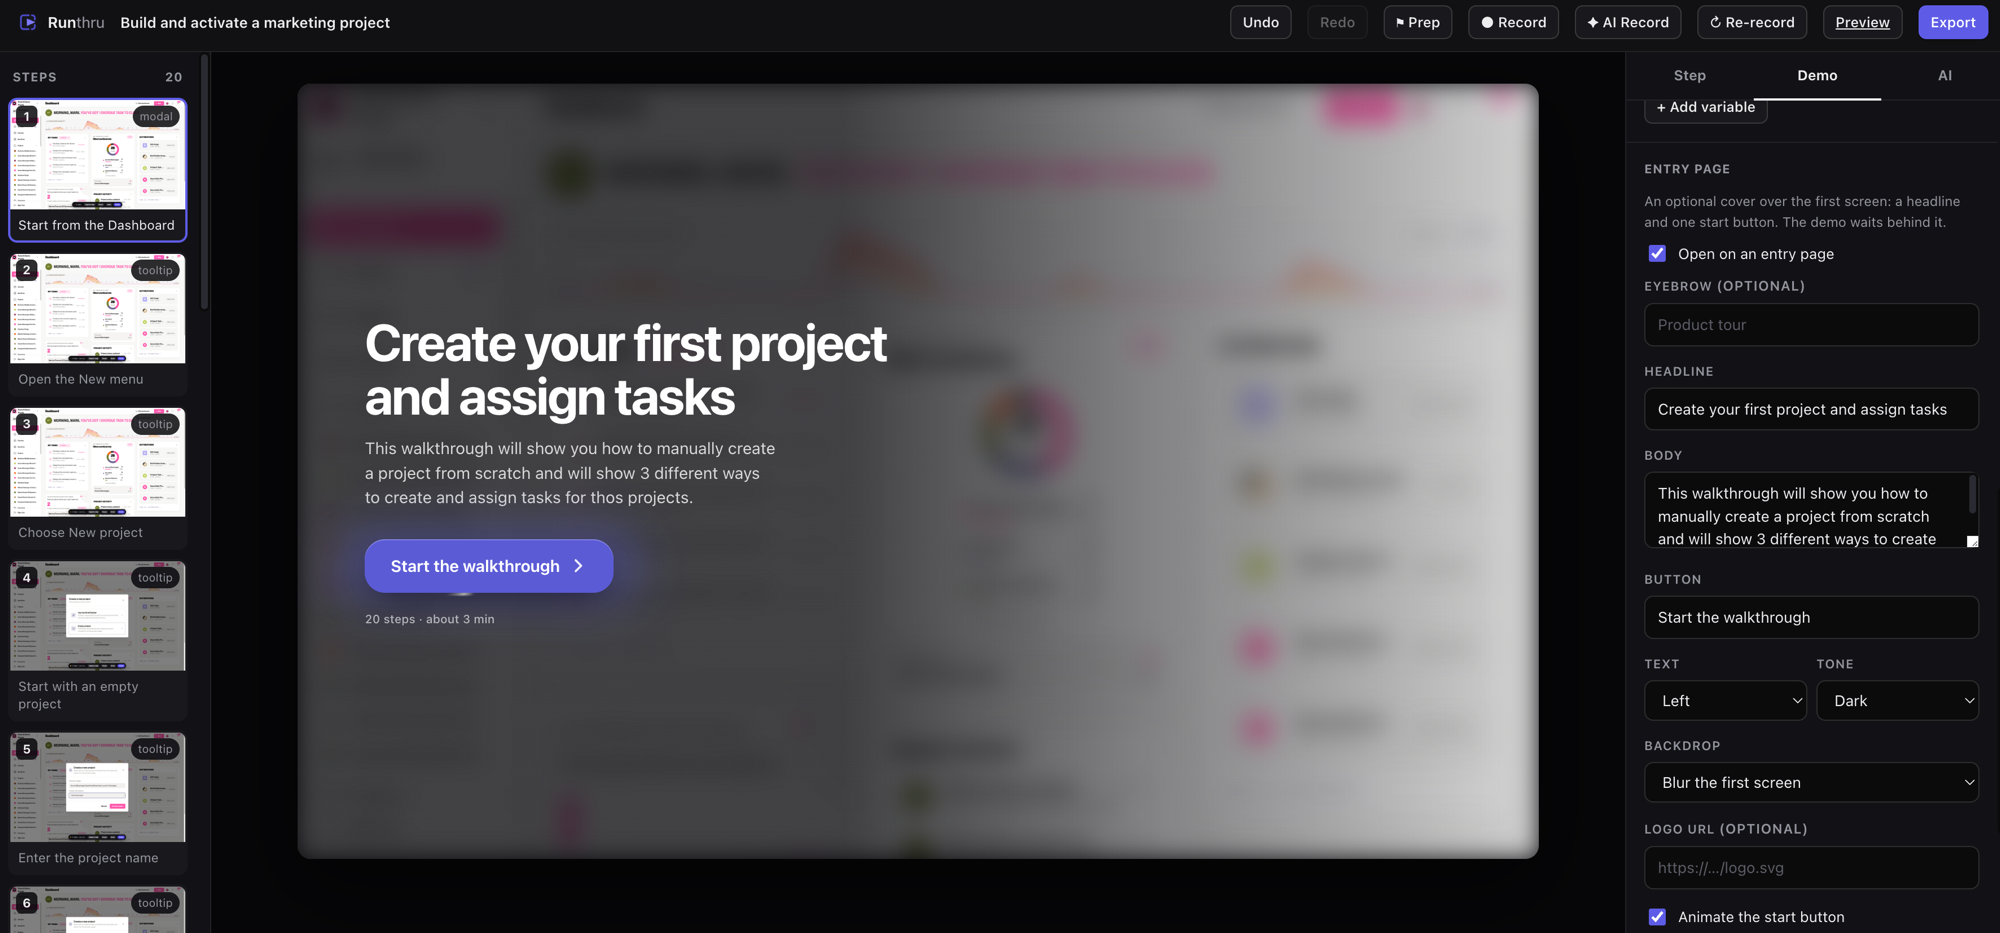
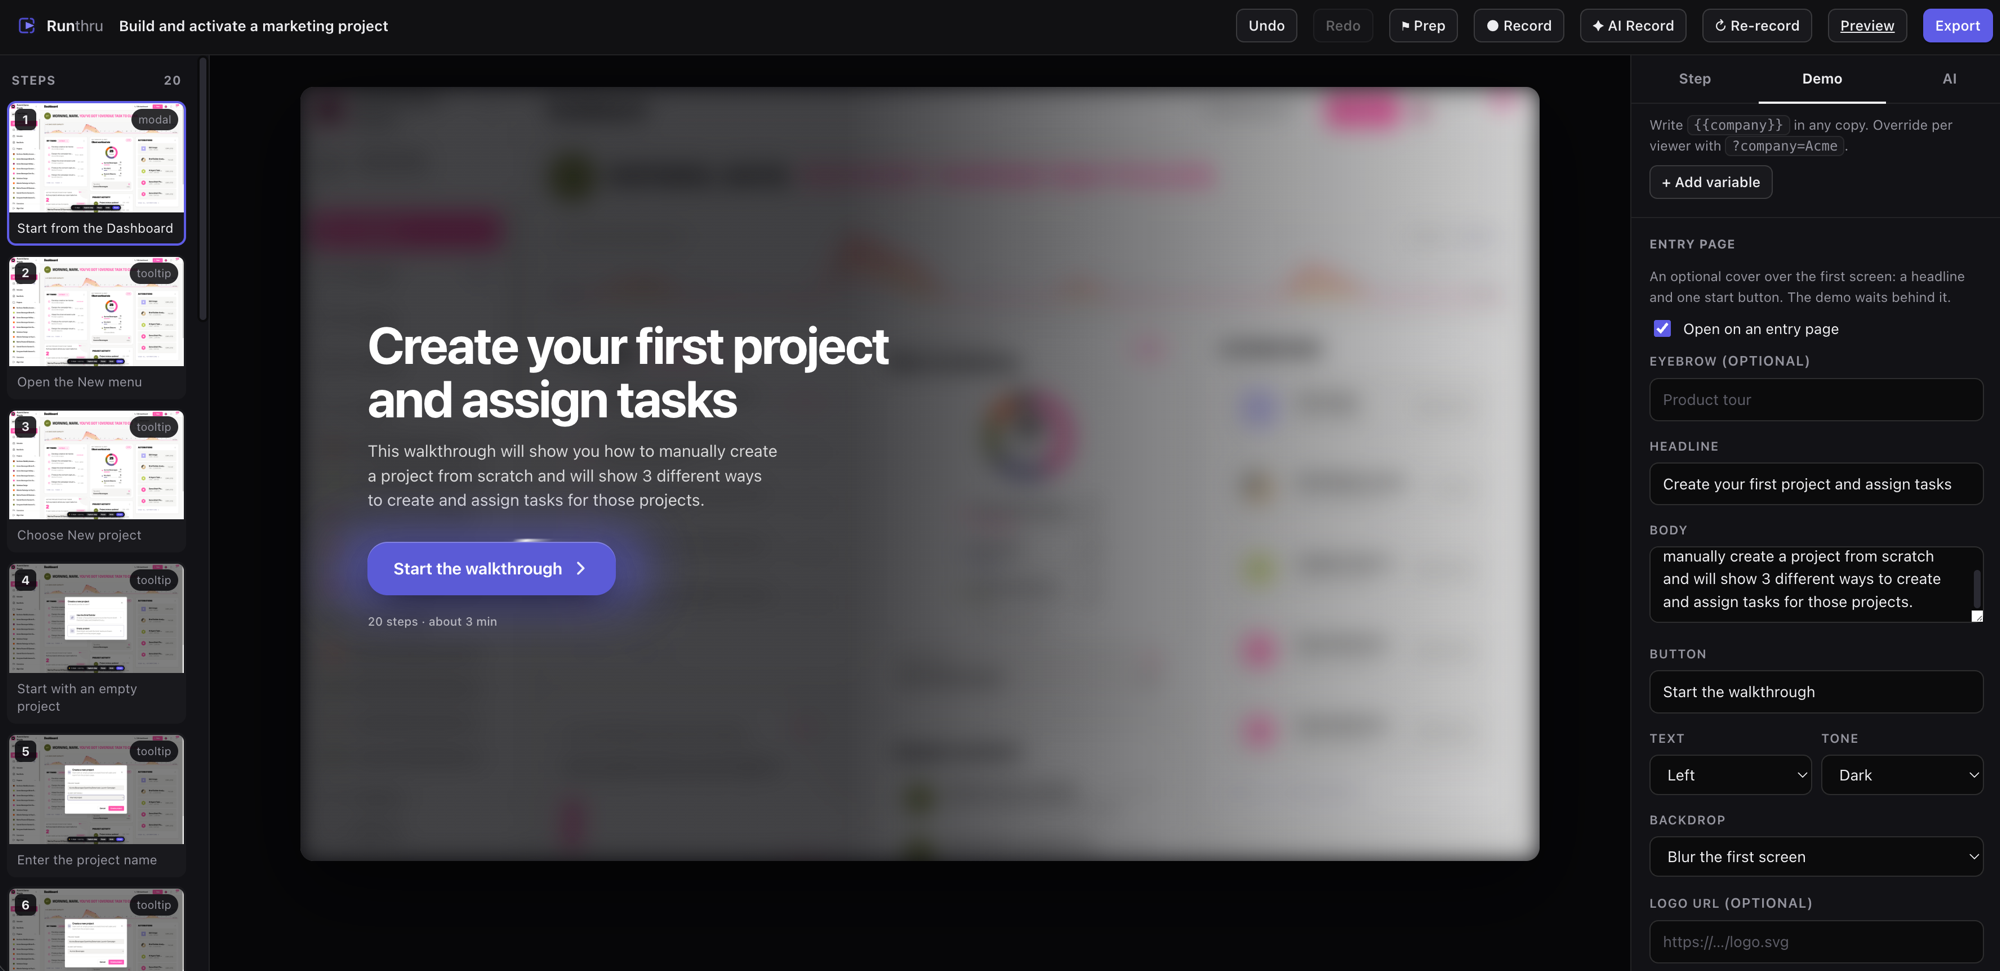
Let the export be named, and remember what it was called
Export now asks what to call the bundle. That one name decides the folder, the
zip and the last segment of the URL it is hosted at, so all three agree — before
this the folder took the demo's slug while the zip took its title, and they
disagreed. It defaults to the demo's title rather than its slug, because the
slug is derived from whatever the demo was first called and after an AI
recording is usually the entire brief, which reads badly in a public link. The
dialog previews the exact slug a name will produce as you type.

The name and the public URL are remembered against the demo, so re-exporting is
one click and the URL cannot drift between takes. Stored as typed rather than as
the slug it became, written without a history entry — exporting is not an edit
and must not cost an undo step — and stripped from the published document.

Also fixes a collision the naming exposed: a demo whose name has no usable
characters fell through to slugify()'s generic "demo" default, so every such
demo exported into the same dist/demo folder and overwrote the last one. It now
falls back to the demo's own slug, which is unique by construction.

Test demos are renamed to a zz-exporttest namespace. Now that the export name
decides a real folder under dist/, a test demo called something ordinary like
"Rebuilt" would have deleted a genuine export of the same name on cleanup.

README: documents the naming, adds a link to a live exported demo, and replaces
[…]

diff --git a/test/export.test.js b/test/export.test.js
@@ -1,9 +1,13 @@
 // Static export and the zip writer.
 //
 // An export is what actually leaves the machine, so the things worth pinning are: it is
-// self-contained, it carries nothing internal, and the file someone downloads is named after
-// the demo rather than its slug (a slug is derived from whatever the demo was first called,
-// often the entire recording brief).
+// self-contained, it carries nothing internal, and it is named by whatever the author calls
+// the export — falling back to the demo's title, never to its slug, which is derived from
+// whatever the demo was first called and is often the entire recording brief.
+//
+// Every demo seeded here is named "Zz exporttest …" on purpose. The export name now decides a
+// real folder under dist/, and these tests delete the folders they create, so a test demo
+// called something ordinary like "Rebuilt" could delete a genuine export of the same name.
 
 import { test, describe, after } from 'node:test';
 import assert from 'node:assert/strict';
@@ -62,13 +66,14 @@ async function seedDemo(name) {
 
 describe('exportDemo', () => {
   test('names the downloadable zip after the demo, not its slug', async () => {
-    const slug = await seedDemo('Create a project with Ru');
+    const slug = await seedDemo('Zz exporttest create a project with Ru');
     const r = await exportDemo(slug);
     cleanup.add(r.zipPath);
+    cleanup.add(r.dir);
 
-    assert.equal(r.fileName, 'create-a-project-with-ru');
-    assert.equal(path.basename(r.zipPath), 'create-a-project-with-ru.zip');
-    assert.equal(r.zipUrl, '/dist/create-a-project-with-ru.zip');
+    assert.equal(r.fileName, 'zz-exporttest-create-a-project-with-ru');
+    assert.equal(path.basename(r.zipPath), 'zz-exporttest-create-a-project-with-ru.zip');
+    assert.equal(r.zipUrl, '/dist/zz-exporttest-create-a-project-with-ru.zip');
     assert.notEqual(r.fileName, slug, 'the slug should not be the download name');
     assert.ok(await fs.stat(r.zipPath).then(() => true, () => false), 'zip was not written');
   });
@@ -77,15 +82,19 @@ describe('exportDemo', () => {
     const slug = await seedDemo('!!!');
     const r = await exportDemo(slug);
     cleanup.add(r.zipPath);
-    // slugify() yields its own fallback rather than an empty filename.
+    cleanup.add(r.dir);
     assert.ok(r.fileName.length > 0);
     assert.doesNotMatch(r.fileName, /[^a-z0-9-]/, 'filename must be filesystem-safe');
+    // Specifically this demo's slug, not a shared generic fallback: two demos that both name
+    // themselves unusably must not export into the same folder and overwrite each other.
+    assert.equal(r.exportSlug, slug);
   });
 
   test('writes a self-contained bundle: player, document, snapshot and entry point', async () => {
-    const slug = await seedDemo('Bundle contents');
+    const slug = await seedDemo('Zz exporttest bundle contents');
     const r = await exportDemo(slug);
     cleanup.add(r.zipPath);
+    cleanup.add(r.dir);
 
     for (const f of ['index.html', 'demo.json', 'player.js', 'player.css', 'embed.txt', 'steps/step-001.html']) {
       assert.ok(await fs.stat(path.join(r.dir, f)).then(() => true, () => false), `bundle is missing ${f}`);
@@ -95,9 +104,10 @@ describe('exportDemo', () => {
   });
 
   test('strips studio-only fields from the published document', async () => {
-    const slug = await seedDemo('Stripped');
+    const slug = await seedDemo('Zz exporttest stripped');
     const r = await exportDemo(slug);
     cleanup.add(r.zipPath);
+    cleanup.add(r.dir);
 
     const published = JSON.parse(await fs.readFile(path.join(r.dir, 'demo.json'), 'utf8'));
     assert.equal(published.nodes[0].pageContext, undefined, 'internal page context was published');
@@ -106,9 +116,10 @@ describe('exportDemo', () => {
   });
 
   test('the entry point references only relative paths, so any static host works', async () => {
-    const slug = await seedDemo('Relative paths');
+    const slug = await seedDemo('Zz exporttest relative paths');
     const r = await exportDemo(slug);
     cleanup.add(r.zipPath);
+    cleanup.add(r.dir);
 
     const html = await fs.readFile(path.join(r.dir, 'index.html'), 'utf8');
     assert.match(html, /\.\/player\.css/);
@@ -116,14 +127,70 @@ describe('exportDemo', () => {
     assert.doesNotMatch(html, /(src|href)="\//, 'an absolute path would break a subfolder deploy');
   });
 
+  test('an explicit export name decides the folder, the zip and the embed URL', async () => {
+    const slug = await seedDemo('Zz exporttest whatever');
+    const r = await exportDemo(slug, { name: 'Zz exporttest create a project with Ru!' });
+    cleanup.add(r.zipPath);
+    cleanup.add(r.dir);
+
+    assert.equal(r.exportSlug, 'zz-exporttest-create-a-project-with-ru');
+    assert.equal(path.basename(r.dir), 'zz-exporttest-create-a-project-with-ru', 'the folder should take the export name');
+    assert.equal(path.basename(r.zipPath), 'zz-exporttest-create-a-project-with-ru.zip');
+
+    // The folder, the zip and the URL in the embed snippet must all agree, or the snippet
+    // points somewhere the bundle was never published to.
+    const embed = await fs.readFile(path.join(r.dir, 'embed.txt'), 'utf8');
+    assert.match(embed, /YOUR-HOST\/zz-exporttest-create-a-project-with-ru\//);
+  });
+
+  test('the export name is slugified, so it cannot escape dist/', async () => {
+    const slug = await seedDemo('Zz exporttest traversal');
+    const r = await exportDemo(slug, { name: '../../etc/passwd' });
+    cleanup.add(r.zipPath);
+    cleanup.add(r.dir);
+
+    assert.doesNotMatch(r.exportSlug, /[^a-z0-9-]/, 'the name arrives off the wire and names a directory');
+    assert.equal(path.dirname(path.resolve(r.dir)), path.resolve(DIST_DIR), 'the bundle escaped dist/');
+  });
+
+  test('remembers the export name and public URL for next time', async () => {
+    const slug = await seedDemo('Zz exporttest remembered');
+    const r = await exportDemo(slug, { name: 'Zz exporttest pick me', publicUrl: 'https://demos.example.test/pick-me/' });
+    cleanup.add(r.zipPath);
+    cleanup.add(r.dir);
+
+    const doc = await readDemo(slug);
+    // Stored as typed, not as the slug it became — reopening the dialog should show the title
+    // the author wrote, and it still slugifies back to the same folder.
+    assert.equal(doc.export.name, 'Zz exporttest pick me');
+    assert.equal(doc.export.publicUrl, 'https://demos.example.test/pick-me/');
+  });
+
+  test('the remembered export settings are never published to viewers', async () => {
+    const slug = await seedDemo('Zz exporttest not published');
+    const first = await exportDemo(slug, { name: 'Zz exporttest round one', publicUrl: 'https://internal.example.test/' });
+    cleanup.add(first.zipPath);
+    cleanup.add(first.dir);
+
+    // Only the second export can carry it: the first is what writes it in the first place.
+    const second = await exportDemo(slug, { name: 'Zz exporttest round two' });
+    cleanup.add(second.zipPath);
+    cleanup.add(second.dir);
+
+    const published = JSON.parse(await fs.readFile(path.join(second.dir, 'demo.json'), 'utf8'));
+    assert.equal(published.export, undefined, 'studio dialog state was published to viewers');
+  });
+
   test('re-exporting replaces the bundle rather than accumulating stale files', async () => {
-    const slug = await seedDemo('Rebuilt');
+    const slug = await seedDemo('Zz exporttest rebuilt');
     const first = await exportDemo(slug);
     cleanup.add(first.zipPath);
+    cleanup.add(first.dir);
     await fs.writeFile(path.join(first.dir, 'stale.txt'), 'left over', 'utf8');
 
     const second = await exportDemo(slug);
     cleanup.add(second.zipPath);
+    cleanup.add(second.dir);
     assert.equal(await fs.stat(path.join(second.dir, 'stale.txt')).then(() => true, () => false), false);
   });
 });

diff --git a/server/export.js b/server/export.js
@@ -9,7 +9,7 @@
 
 import fs from 'node:fs/promises';
 import path from 'node:path';
-import { demoDir, readDemo, slugify, DIST_DIR, ROOT } from './store.js';
+import { demoDir, readDemo, writeDemo, withDemoLock, slugify, DIST_DIR, ROOT } from './store.js';
 import { zipDirectory } from './zip.js';
 
 async function copyDir(from, to) {
@@ -58,8 +58,8 @@ function indexHtml(doc) {
 </html>`;
 }
 
-function embedSnippet(doc, publicUrl) {
-  const url = publicUrl || `https://YOUR-HOST/${doc.slug}/`;
+function embedSnippet(doc, publicUrl, exportSlug) {
+  const url = publicUrl || `https://YOUR-HOST/${exportSlug}/`;
   return `<!-- ${doc.name || doc.slug} — responsive embed -->
 <div style="position:relative;width:100%;padding-bottom:62.5%;height:0;overflow:hidden;border-radius:12px">
   <iframe
@@ -77,10 +77,25 @@ because browsers give file:// iframes an opaque origin and the player cannot mea
 `;
 }
 
-export async function exportDemo(slug, { publicUrl = '' } = {}) {
+export async function exportDemo(slug, { publicUrl = '', name = '' } = {}) {
   const doc = await readDemo(slug);
   const src = demoDir(slug);
-  const out = path.join(DIST_DIR, slug);
+
+  // What the export is called: its folder, its zip, and the last segment of the URL it will be
+  // hosted at. Defaults to the demo's title rather than its slug, because the slug is derived
+  // from whatever the demo was first called — often the entire recording brief — which reads
+  // badly in a public link. Slugified here rather than trusted, since it arrives off the wire
+  // and names a directory.
+  // Cleaned here rather than via slugify(), whose own "demo" fallback would send every
+  // unusably-named demo to the same dist/demo folder to overwrite each other. An empty result
+  // falls back to this demo's slug, which is unique by construction.
+  const exportSlug =
+    String(name || doc.name || '')
+      .toLowerCase()
+      .replace(/[^a-z0-9]+/g, '-')
+      .replace(/^-+|-+$/g, '')
+      .slice(0, 60) || slug;
+  const out = path.join(DIST_DIR, exportSlug);
 
   await fs.rm(out, { recursive: true, force: true });
   await fs.mkdir(out, { recursive: true });
@@ -97,6 +112,7 @@ export async function exportDemo(slug, { publicUrl = '' } = {}) {
 
   // Strip studio-only fields so the published document carries nothing internal.
   const published = JSON.parse(JSON.stringify(doc));
+  delete published.export; // remembered dialog state, of no interest to a viewer
   for (const n of published.nodes) {
     delete n.pageContext;
     delete n.capture;
@@ -104,27 +120,39 @@ export async function exportDemo(slug, { publicUrl = '' } = {}) {
 
   await fs.writeFile(path.join(out, 'demo.json'), JSON.stringify(published, null, 2), 'utf8');
   await fs.writeFile(path.join(out, 'index.html'), indexHtml(doc), 'utf8');
-  await fs.writeFile(path.join(out, 'embed.txt'), embedSnippet(doc, publicUrl), 'utf8');
+  await fs.writeFile(path.join(out, 'embed.txt'), embedSnippet(doc, publicUrl, exportSlug), 'utf8');
 
   const size = await dirSize(out);
 
   // Ship it as one file too. A bundle is hundreds of snapshot files; the zip is what actually
-  // gets emailed, attached to a ticket or dragged onto a host — so it is named after the demo
-  // rather than its slug. The slug is derived from whatever the demo was first called (often
-  // the whole recording brief), while the name is the title the author settled on.
-  const fileName = slugify(doc.name) || slug;
-  const zipPath = path.join(DIST_DIR, `${fileName}.zip`);
-  const zip = await zipDirectory(out, zipPath, { root: fileName });
+  // gets emailed, attached to a ticket or dragged onto a host. It carries the same name as the
+  // folder so that what you download, what you unzip and what the URL says all agree.
+  const zipPath = path.join(DIST_DIR, `${exportSlug}.zip`);
+  const zip = await zipDirectory(out, zipPath, { root: exportSlug });
+
+  // Remember what this export was called and where it is hosted, so the next one offers them
+  // back instead of making the author retype both. Re-read inside the lock because everything
+  // above is slow and the document may have moved on; written without a history entry, since
+  // exporting is not an edit to the demo and must never cost an undo step.
+  // The name is stored as it was typed, not as the slug it became: slugifying is deterministic,
+  // so it still comes back to the same folder, and the author sees the title they wrote rather
+  // than having it collapse to a slug the moment they reopen the dialog.
+  await withDemoLock(slug, async () => {
+    const fresh = await readDemo(slug);
+    fresh.export = { name: name || doc.name, publicUrl };
+    await writeDemo(slug, fresh, { history: false });
+  }).catch(() => {}); // a bundle that is already on disk must not fail over a bookkeeping write
 
   return {
     slug,
-    fileName,
+    exportSlug,
+    fileName: exportSlug,
     dir: out,
     bytes: size,
     steps: doc.nodes.length,
     zipPath,
     zipBytes: zip.bytes,
-    zipUrl: `/dist/${encodeURIComponent(fileName)}.zip`,
+    zipUrl: `/dist/${encodeURIComponent(exportSlug)}.zip`,
   };
 }
 

diff --git a/studio/editor.js b/studio/editor.js
@@ -5,7 +5,7 @@
 // works identically no matter which one made the change.
 
 import { DemoPlayer } from '/player/player.js';
-import { api, toast, modal, esc, debounce } from '/studio/util.js';
+import { api, toast, modal, esc, debounce, slugify } from '/studio/util.js';
 
 const slug = new URLSearchParams(location.search).get('demo');
 if (!slug) location.href = '/';
@@ -1190,14 +1190,29 @@ function offerDraft() {
 }
 
 document.getElementById('exportBtn').onclick = () => {
-  modal({
+  // Whatever the last export was called comes back, so re-exporting is one click and the name
+  // cannot drift between takes. Falls back to the demo's title on the first export — never to
+  // the recording slug, which is usually the whole brief and reads badly in a link.
+  const last = doc.export || {};
+  const suggested = slugify(last.name || doc.name);
+  const m = modal({
     title: 'Export a static bundle',
     body: `<p>Writes a self-contained folder with no backend — player, snapshots and assets. Host it anywhere.</p>
+      <div class="field"><label>Export name</label>
+        <input class="input" id="xName" value="${esc(last.name || doc.name)}">
+        <div class="hint">Names the folder, the zip and the last part of the public URL:
+          <code id="xSlug">${esc(suggested)}</code></div>
+      </div>
       <div class="field"><label>Public URL (optional, for the embed snippet)</label>
-      <input class="input" id="xUrl" placeholder="https://demos.yoursite.com/${esc(slug)}/"></div>`,
+      <input class="input" id="xUrl" value="${esc(last.publicUrl || '')}" placeholder="https://demos.yoursite.com/${esc(suggested)}/"></div>`,
     confirm: 'Export',
     onConfirm: async (root, close) => {
-      const r = await api(`/api/export/${slug}`, { method: 'POST', body: { publicUrl: root.querySelector('#xUrl').value.trim() } });
+      const publicUrl = root.querySelector('#xUrl').value.trim();
+      const name = root.querySelector('#xName').value.trim();
+      const r = await api(`/api/export/${slug}`, { method: 'POST', body: { publicUrl, name } });
+      // The server just recorded this against the demo; mirror it locally so reopening the
+      // dialog in this session offers it back without a reload.
+      doc.export = { name: name || doc.name, publicUrl };
       close();
       modal({
         title: 'Exported',
@@ -1209,12 +1224,23 @@ document.getElementById('exportBtn').onclick = () => {
               : ''
           }
           <div class="field"><label>Written to</label><input class="input" value="${esc(r.dir)}" readonly onclick="this.select()"></div>
-          <p class="hint">Preview it with <code>npm run serve-export -- ${esc(slug)}</code>, then open <code>http://localhost:4500</code>. It must be served over http — opening index.html from disk will not work.</p>`,
+          <p class="hint">Preview it with <code>npm run serve-export -- ${esc(r.exportSlug || slug)}</code>, then open <code>http://localhost:4500</code>. It must be served over http — opening index.html from disk will not work.</p>`,
         confirm: 'Done',
         cancel: 'Close',
       });
     },
   });
+
+  // Show the slug the name will actually produce, so there is no guessing what the folder and
+  // the URL end up called. The server slugifies again on arrival; this only previews it.
+  const nameEl = m.root.querySelector('#xName');
+  const urlEl = m.root.querySelector('#xUrl');
+  const slugEl = m.root.querySelector('#xSlug');
+  nameEl.oninput = () => {
+    const s = slugify(nameEl.value);
+    slugEl.textContent = s;
+    urlEl.placeholder = `https://demos.yoursite.com/${s}/`;
+  };
 };
 
 // ---------------------------------------------------------------- boot

diff --git a/studio/util.js b/studio/util.js
@@ -63,6 +63,19 @@ export function modal({ title, body, confirm = 'OK', cancel = 'Cancel', onConfir
   return { root, close };
 }
 
+// Mirrors slugify() in server/store.js, so the studio can show the exact folder and URL an
+// export is about to get. The server re-slugifies whatever it is sent, so this is only ever a
+// preview of that decision, never the authority on it.
+export function slugify(s) {
+  return (
+    String(s || '')
+      .toLowerCase()
+      .replace(/[^a-z0-9]+/g, '-')
+      .replace(/^-+|-+$/g, '')
+      .slice(0, 60) || 'demo'
+  );
+}
+
 export function esc(s) {
   return String(s ?? '').replace(/[&<>"']/g, (c) => ({ '&': '&amp;', '<': '&lt;', '>': '&gt;', '"': '&quot;', "'": '&#39;' })[c]);
 }

diff --git a/README.md b/README.md
@@ -25,6 +25,11 @@
 </p>
 
 <p align="center">
+  <strong><a href="https://runnit.io/demos/i-want-you-to-create-a-demo-of-from-the-dashboard-clickin/">▶ See a demo Runthru exported, live →</a></strong><br>
+  <sub>A real recording, published as a static bundle — entry page, guide cursor, replayed typing and all.</sub>
+</p>
+
+<p align="center">
   <sub>MIT licensed. A personal project, shared as is, with no warranty. You are responsible
   for what you record. See <a href="#disclaimer">Disclaimer</a>.</sub>
 </p>
@@ -262,17 +267,25 @@ your site. Demos mount lazily, so a ten-feature showcase doesn't load ten snapsh
 
 ## Export
 
-**Export** writes `dist/<slug>/`: player, demo document, snapshots, assets, an `index.html` and
-an `embed.txt` with a responsive iframe snippet. No backend at all.
+**Export** asks what to call the bundle, then writes `dist/<export-name>/`: player, demo
+document, snapshots, assets, an `index.html` and an `embed.txt` with a responsive iframe
+snippet. No backend at all.
 
-Every export also writes a zip beside the folder, `dist/<slug>.zip`, with everything nested
-under one directory so unzipping never scatters files, and the export dialog offers it as a
-direct download. Snapshots are markup, so bundles typically compress to well under half their
-size on disk. The archive is written with `node:zlib` alone; no zip dependency was added.
+The export name is yours to choose — it names the folder, the zip and the last segment of the
+URL you host at, so all three agree. It defaults to the demo's **title**, not its slug: the
+slug comes from whatever the demo was first called, which after an AI recording is usually the
+entire brief and reads badly in a public link. The dialog shows the exact slug your name will
+produce as you type, and remembers both the name and the public URL against the demo, so
+re-exporting is one click and the URL never drifts between takes.
+
+Every export also writes a zip beside the folder, `dist/<export-name>.zip`, with everything
+nested under one directory so unzipping never scatters files, and the export dialog offers it
+as a direct download. Snapshots are markup, so bundles typically compress to well under half
+their size on disk. The archive is written with `node:zlib` alone; no zip dependency was added.
 
 ```bash
 npm run serve-export                  # lists every export
-npm run serve-export -- runnit-dashboard
+npm run serve-export -- your-export-name
 ```
 
 > Exports must be served over **http(s)**, not opened as a `file://` path. Browsers give
